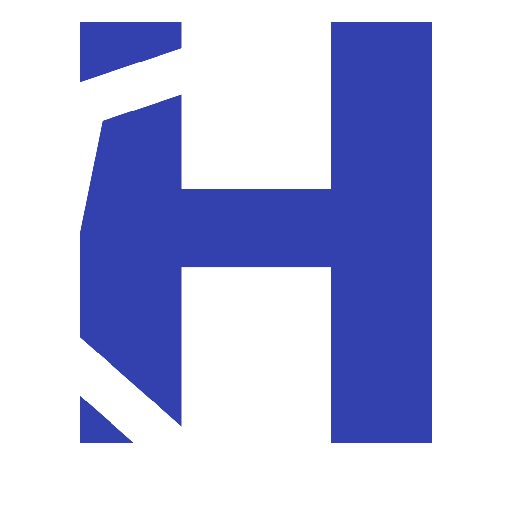
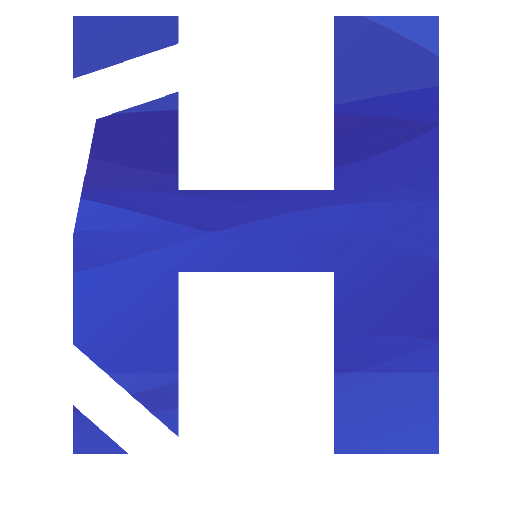
ne wlogo

diff --git a/src/routes/home/+page.svelte b/src/routes/home/+page.svelte
@@ -18,7 +18,7 @@
 	<h1 class="text-3xl">Friends (0)</h1>
 
 	<div
-		class="supports-backdrop-blur:bg-background/60 w-full border-b bg-muted-foreground/5 shadow-sm backdrop-blur flex flex-row p-4 gap-x-4 select-none outline-dashed outline-muted-foreground/20"
+		class="supports-backdrop-blur:bg-background/60 w-full border-b bg-muted-foreground/5 shadow-sm backdrop-blur flex flex-row p-4 gap-x-4 select-none outline-dashed outline-muted-foreground/20 rounded-xl"
 	>
 		<div class="mx-auto flex flex-col w-full gap-y-4">
 			<HeartCrack class="w-24 h-24 mx-auto" strokeWidth={1.2} />

diff --git a/src/routes/login/+page.svelte b/src/routes/login/+page.svelte
@@ -15,7 +15,7 @@
 <div class="flex m-auto">
 	<div class="mx-auto flex w-full flex-col justify-center space-y-6 sm:w-[350px]">
 		<div class="relative mx-auto font-bold z-20 flex items-center text-4xl">
-			<img alt="H" class="w-16" src="/hexagon128.png" />
+			<img alt="H" class="w-16" src="/hexagon512.png" />
 			exagon
 		</div>
 		<div class="flex flex-col space-y-2 text-center">

diff --git a/src/routes/+page.svelte b/src/routes/+page.svelte
@@ -82,7 +82,7 @@
 	<div class="mx-auto flex w-full flex-col justify-center space-y-6 sm:w-[350px]">
 		<div class="relative mx-auto font-bold z-20 flex items-center text-4xl">
 			<button on:click={clickerInc}>
-				<img alt="H" class="w-16" src="/hexagon128.png" />
+				<img alt="H" class="w-16" src="/hexagon512.png" />
 			</button>
 			exagon
 		</div>
